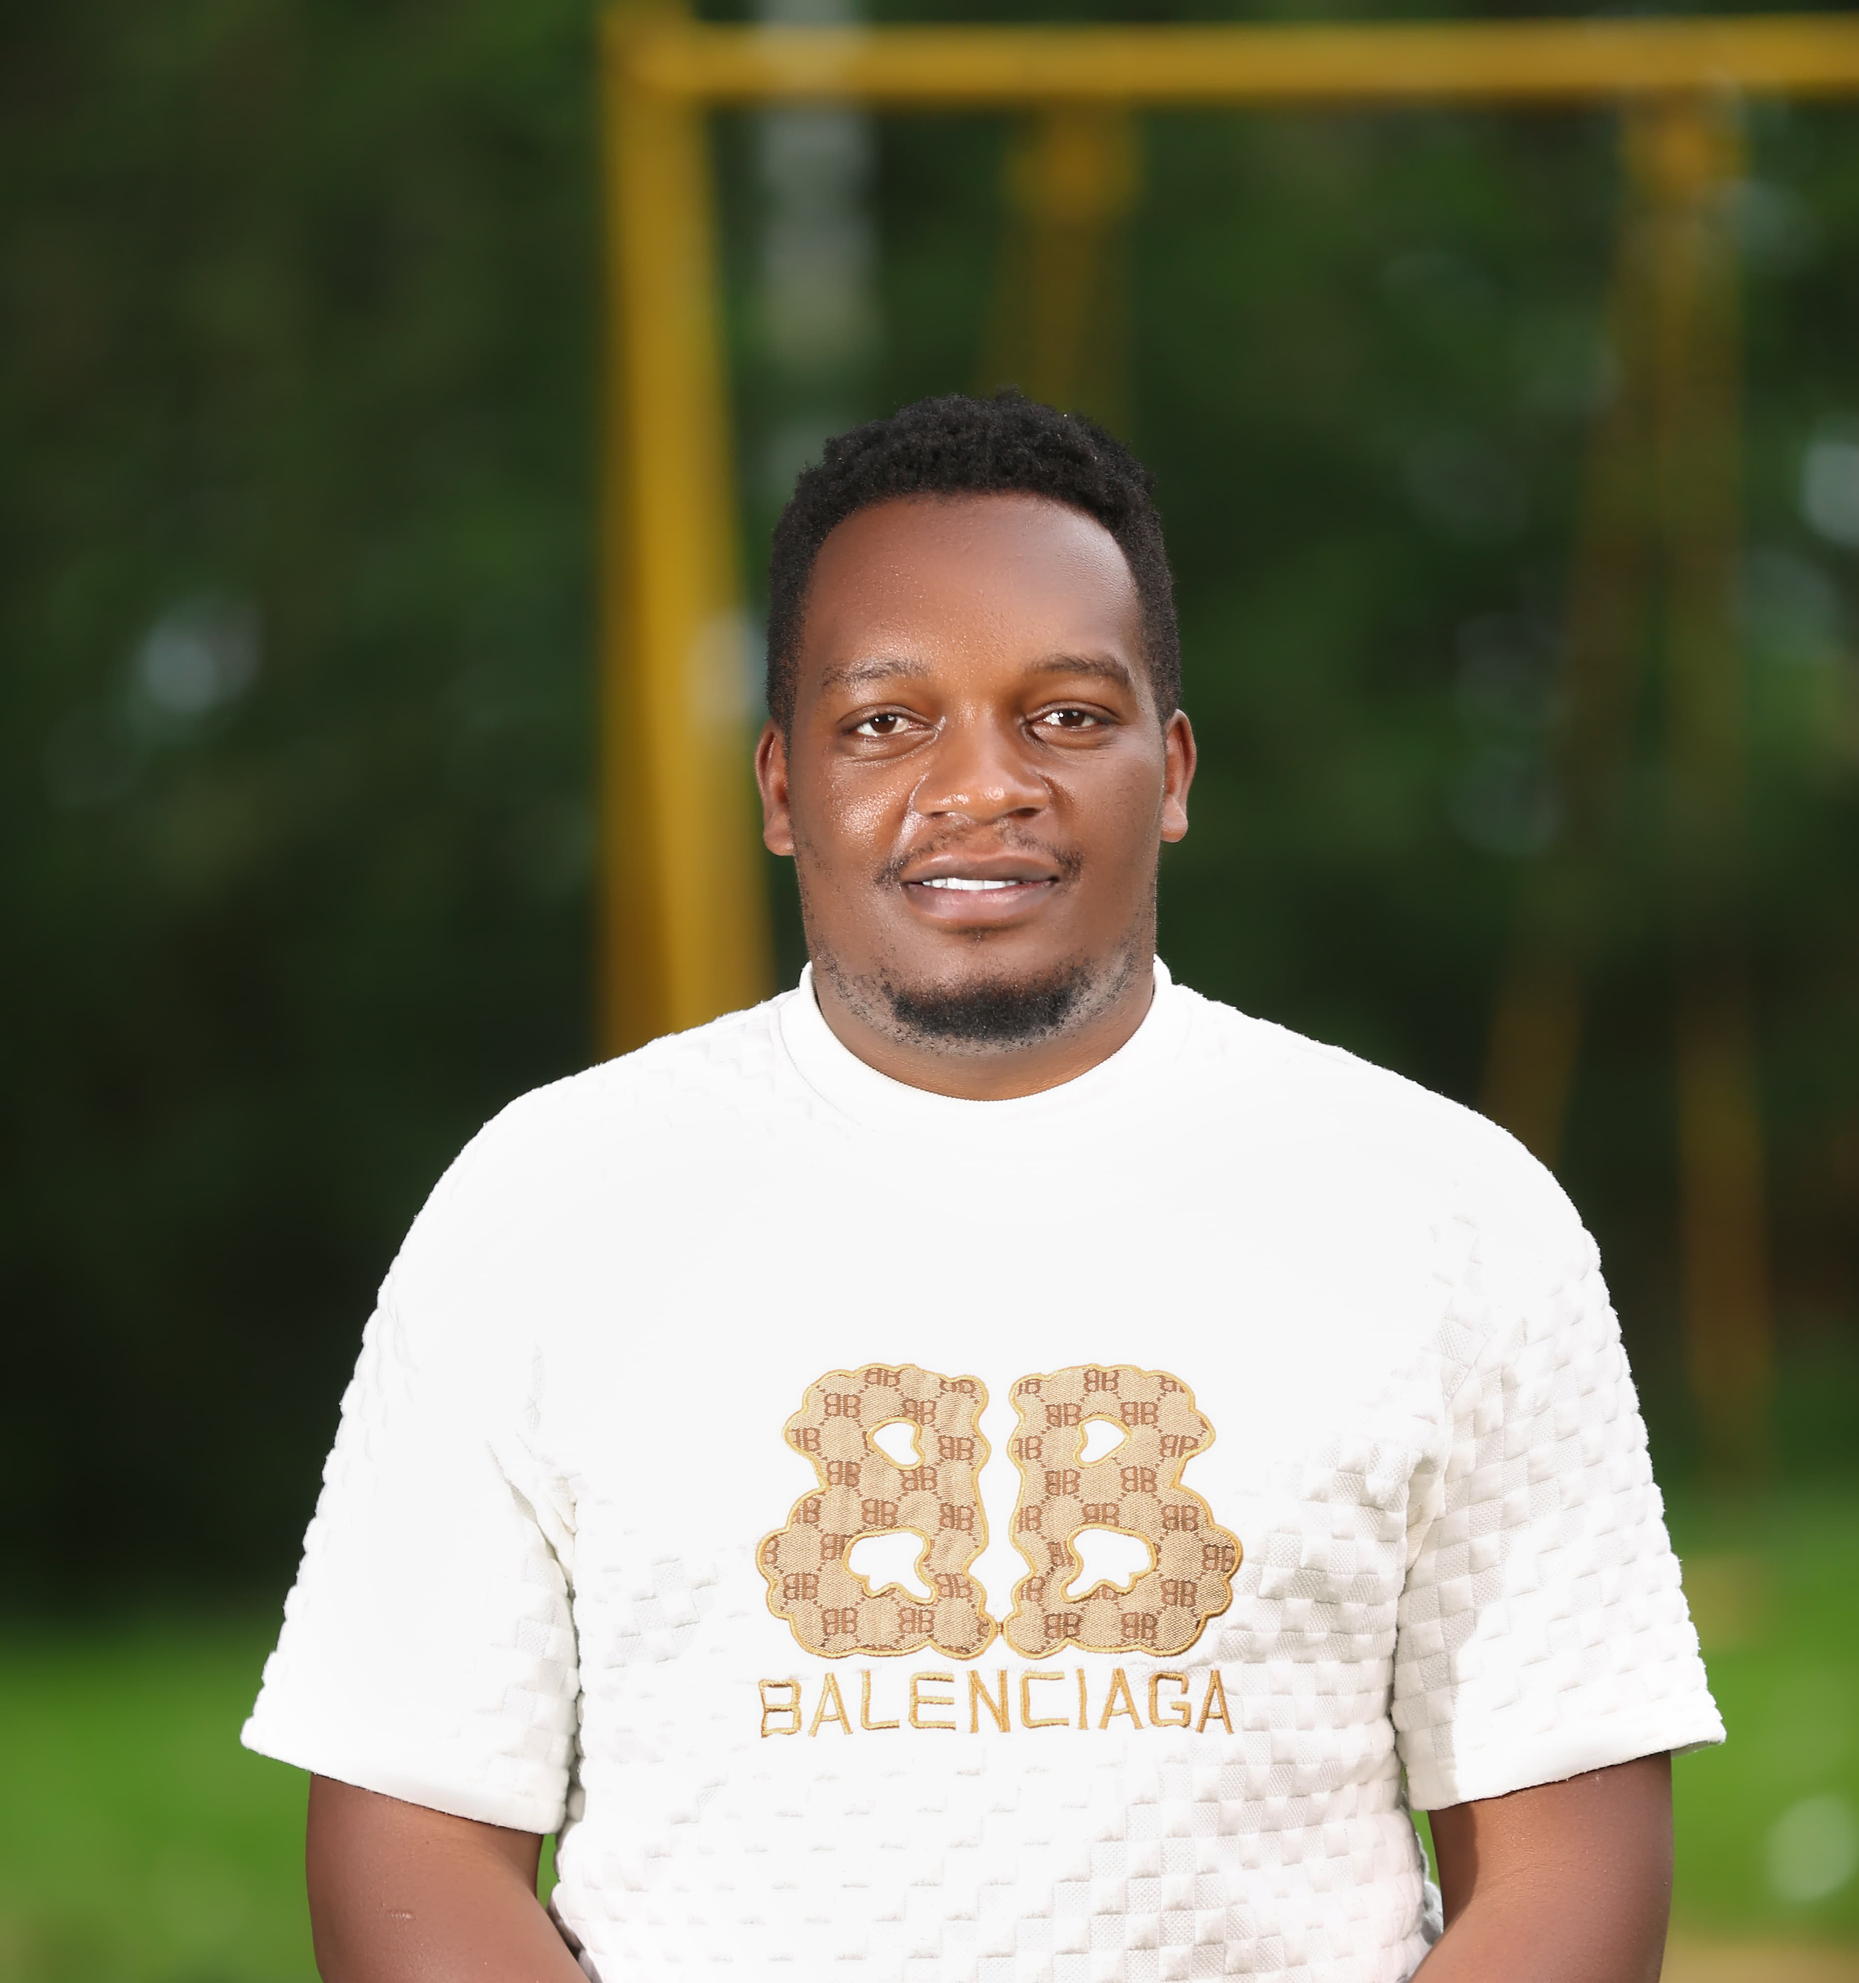
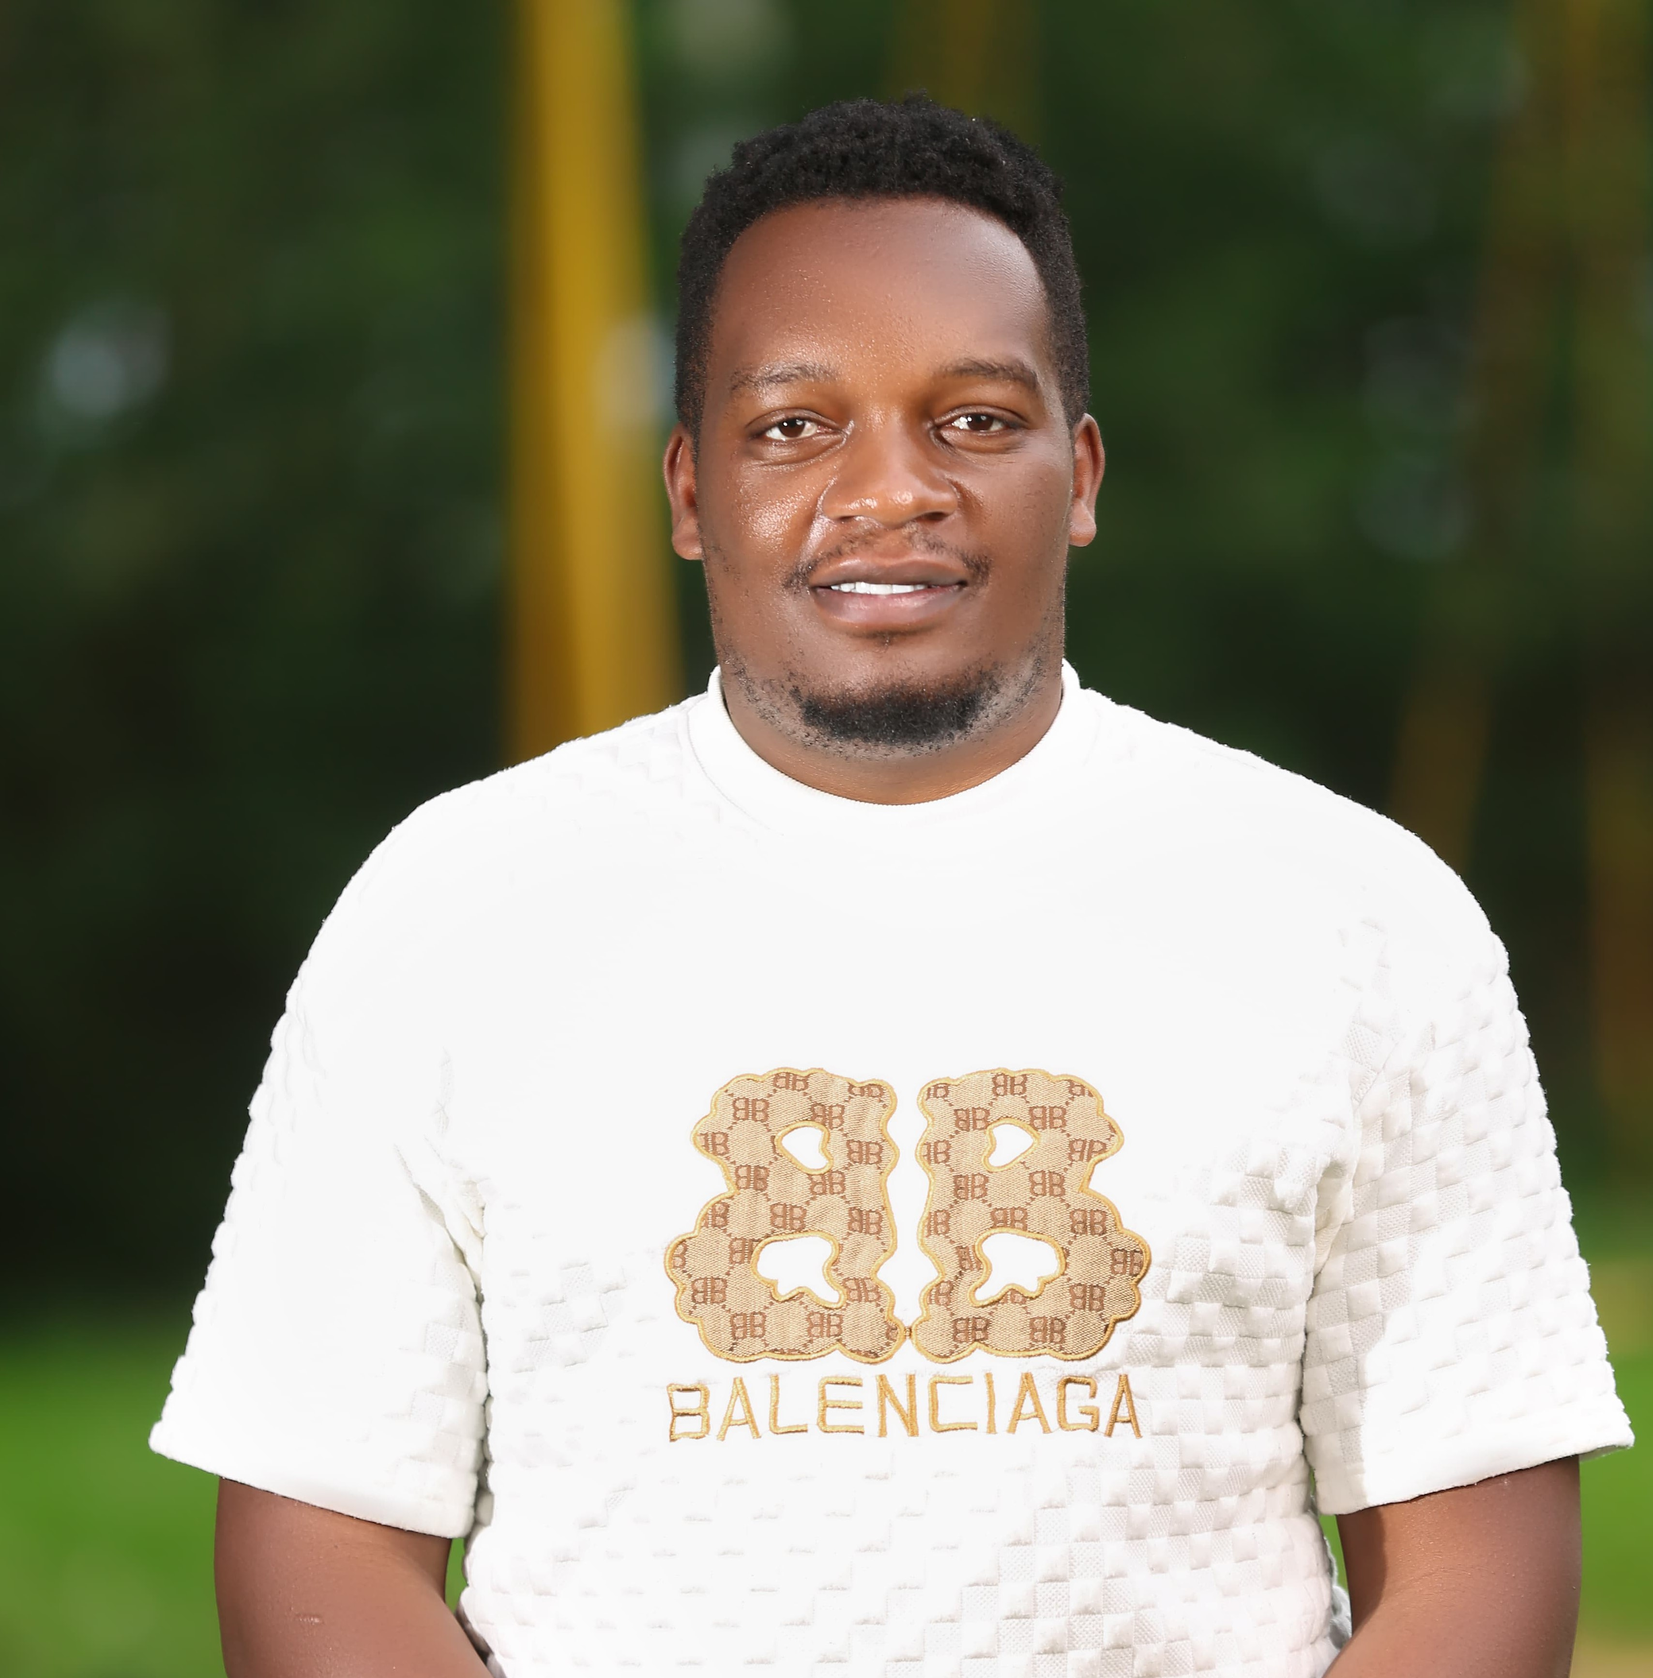
kevin 2

diff --git a/index.html b/index.html
@@ -74,7 +74,7 @@
    
    <div class="containers">
       <div class="backgroundimg">
-         <img src="assets/img/kevin 11.jpg" alt="kevin">
+         <img src="assets/img/kevin 1.jpg" alt="kevin">
       </div>
       <div class="content">
          <h1>KEVIN MTAI</h1>

diff --git a/assets/css/styles.css b/assets/css/styles.css
@@ -181,6 +181,7 @@ body.dark-theme{
   z-index: var(--z-fixed);
   transition: box-shadow .4s, backgroung-color .4s;
   height: 40px;
+  padding-top: 10px;
 
 }
 .nav{
